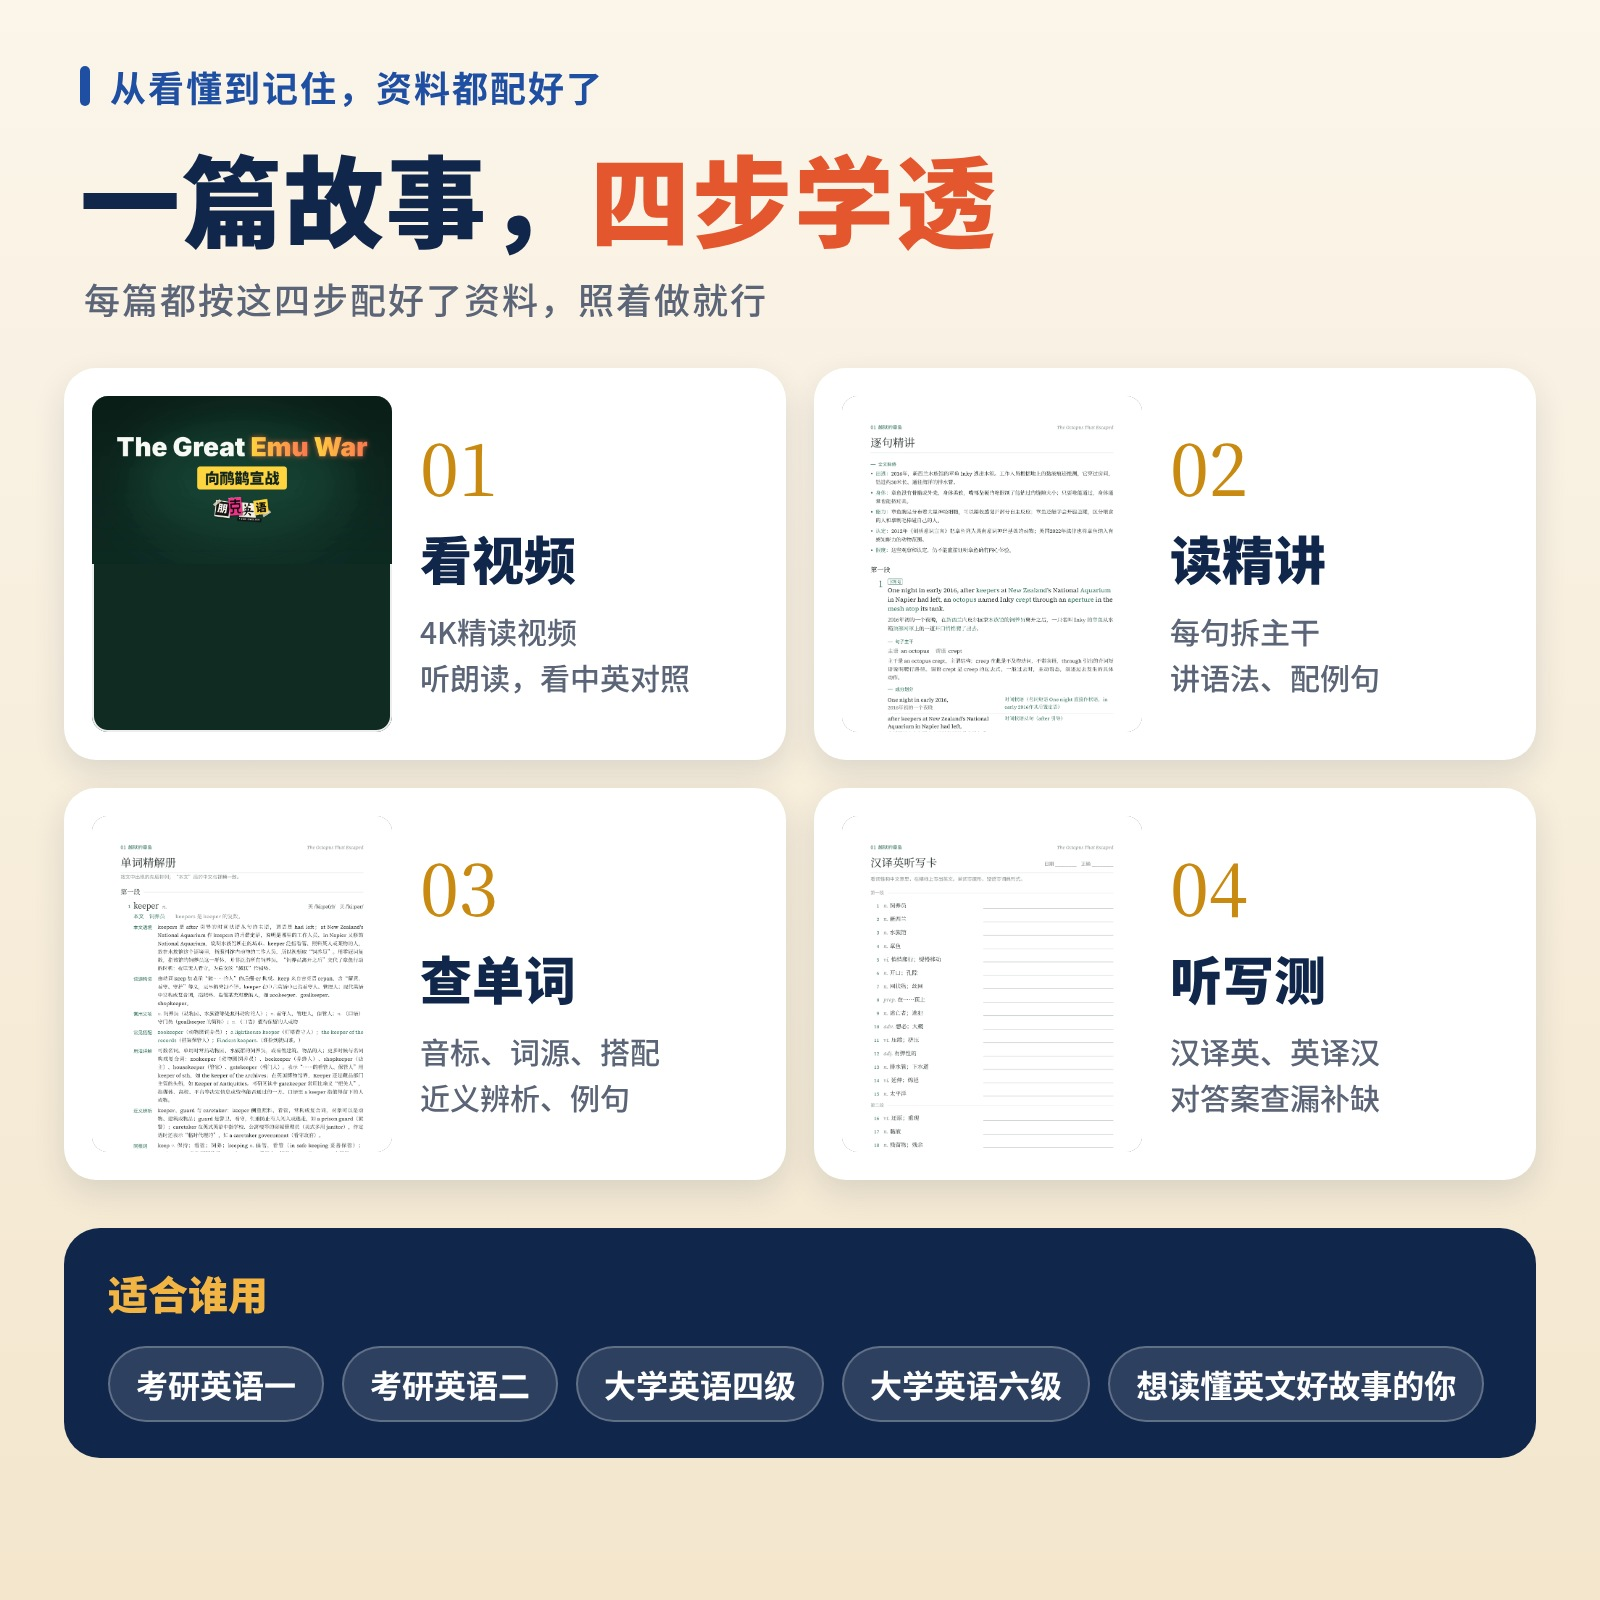
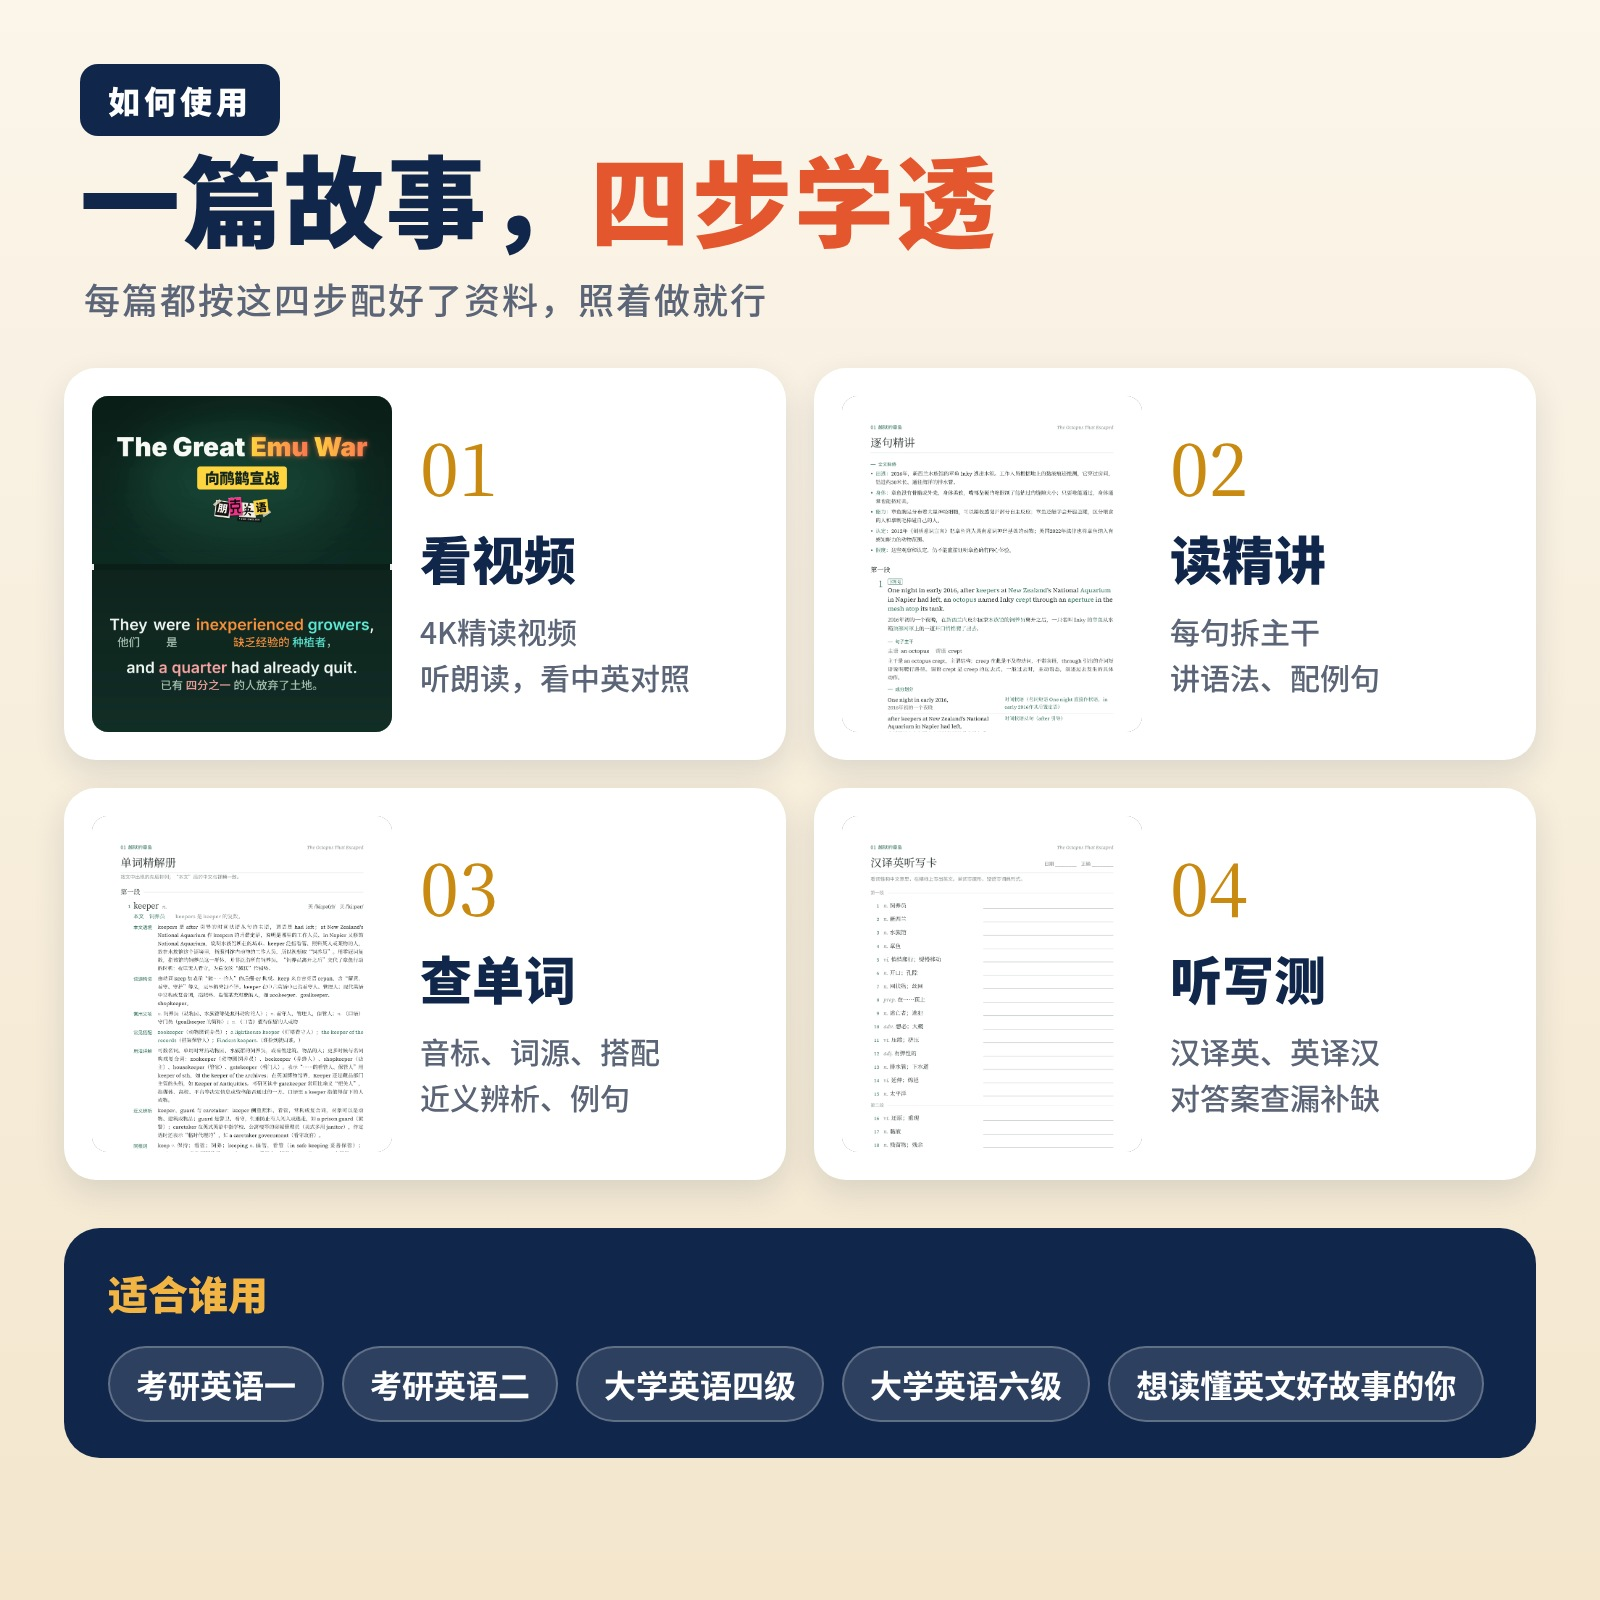
商品图第 7 张：左上角保留“如何使用”；看视频那一步的小屏幕换成标题画面加句子画面，不再有空白
Claude-Session: https://claude.ai/code/session_018Kg61y5YeZxoNzSXSuyt8u

Changed region(s): [[0.0312, 0.0312, 0.375, 0.0938], [0.0625, 0.375, 0.2188, 0.4375]]

diff --git a/推广文案/商品图-2026-11-17/制作源文件/7.html b/推广文案/商品图-2026-11-17/制作源文件/7.html
@@ -20,13 +20,16 @@ body { background: linear-gradient(180deg, #fbf5ea 0%, #f3e6cd 100%); }
 .who .chips span { font-weight: 700; font-size: 16px; background: rgba(255,255,255,.12); border: 1px solid rgba(255,255,255,.25); padding: 6px 13px; border-radius: 999px; }
 .kick { position: absolute; left: 40px; top: 30px; display: flex; align-items: center; gap: 10px; font-weight: 700; font-size: 18px; letter-spacing: 1px; color: var(--blue); white-space: nowrap; }
 .kick::before { content: ''; width: 5px; height: 20px; border-radius: 3px; background: var(--blue); }
+.tag7 { position: absolute; left: 40px; top: 32px; font-weight: 900; font-size: 16px; color: #fff; background: var(--navy); padding: 6px 14px; border-radius: 9px; letter-spacing: 2px; }
+.pic.v { flex-direction: column; gap: 3px; padding: 0; background: #0b1f19; justify-content: space-between; }
+.pic.v img { width: 100%; height: 50%; object-fit: cover; object-position: center; display: block; }
 </style></head>
 <body><div class="canvas">
-  <div class="kick">从看懂到记住，资料都配好了</div>
+  <div class="tag7">如何使用</div>
   <div class="h">一篇故事，<span>四步学透</span></div>
   <div class="s">每篇都按这四步配好了资料，照着做就行</div>
   <div class="grid">
-    <div class="step"><div class="pic v"><img src="../assets/scr52_0.png"></div><div><div class="num">01</div><div class="t">看视频</div><div class="d">4K精读视频<br>听朗读，看中英对照</div></div></div>
+    <div class="step"><div class="pic v"><img src="../assets/scr52_0.png"><img src="../assets/scr52_2.png"></div><div><div class="num">01</div><div class="t">看视频</div><div class="d">4K精读视频<br>听朗读，看中英对照</div></div></div>
     <div class="step"><div class="pic"><img src="../assets/jj01_p1.png"></div><div><div class="num">02</div><div class="t">读精讲</div><div class="d">每句拆主干<br>讲语法、配例句</div></div></div>
     <div class="step"><div class="pic"><img src="../assets/cd01_p1.png"></div><div><div class="num">03</div><div class="t">查单词</div><div class="d">音标、词源、搭配<br>近义辨析、例句</div></div></div>
     <div class="step"><div class="pic"><img src="../assets/card_zh2en.png"></div><div><div class="num">04</div><div class="t">听写测</div><div class="d">汉译英、英译汉<br>对答案查漏补缺</div></div></div>

diff --git a/推广文案/商品图-2026-11-17/README.md b/推广文案/商品图-2026-11-17/README.md
@@ -14,7 +14,7 @@
 | 4 | 4 逐句精讲与单词精解 | 第 1 篇实际内页：主干成分、英美音标、本文语境、词源等 |
 | 5 | 5 听写卡自测 | 两张听写卡；示例词条与第 1 篇数据逐字一致 |
 | 6 | 6 羊皮纸古书版 | 羊皮纸版和普通版内页 |
-| 7 | 7 四步学法与适合人群 | 四步学法；考研英语一、二，四级、六级 |
+| 7 | 7 四步学法与适合人群 | 左上角标签“如何使用”（用户 2026-11-17 要求保留）；四步学法，第一步配视频标题画面和句子画面；考研英语一、二，四级、六级 |
 
 另有 `eBay 无字主图`（纯白底、不加任何文字，只有教材、羊皮纸版内页、播放视频的电脑、同版 PDF 和讲义内页）：eBay 图片规定不允许在照片上加文字，建议在 eBay 放第一张。
 
